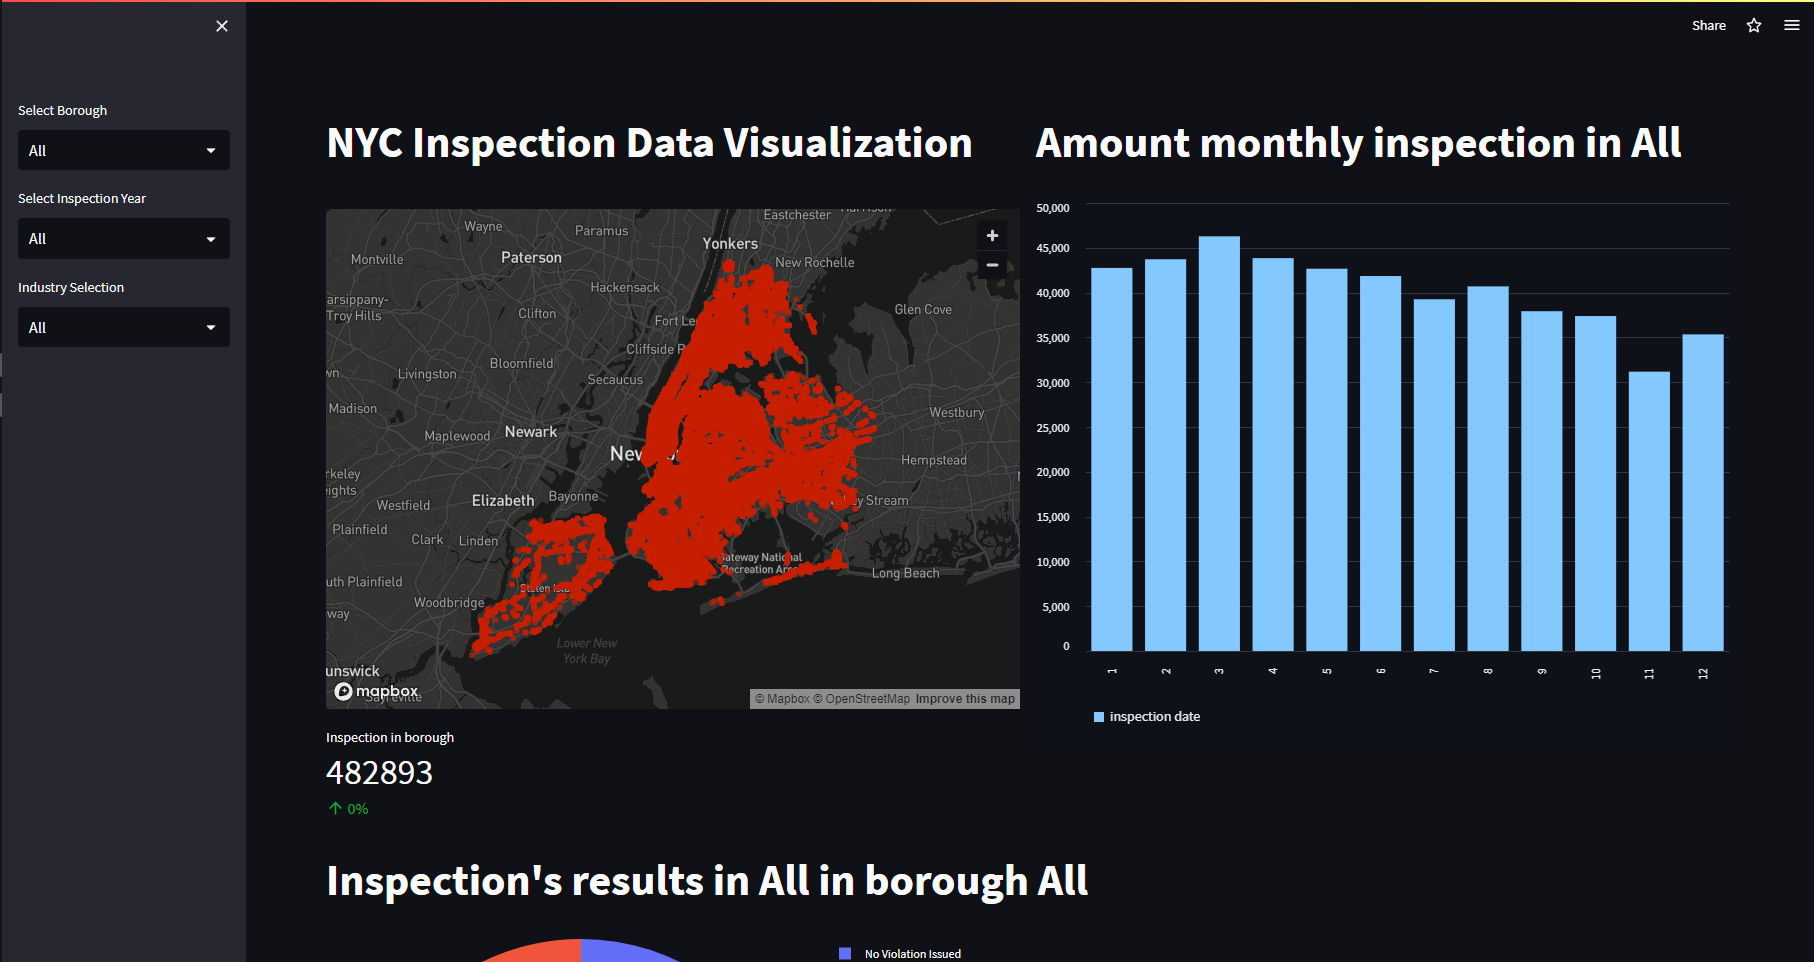
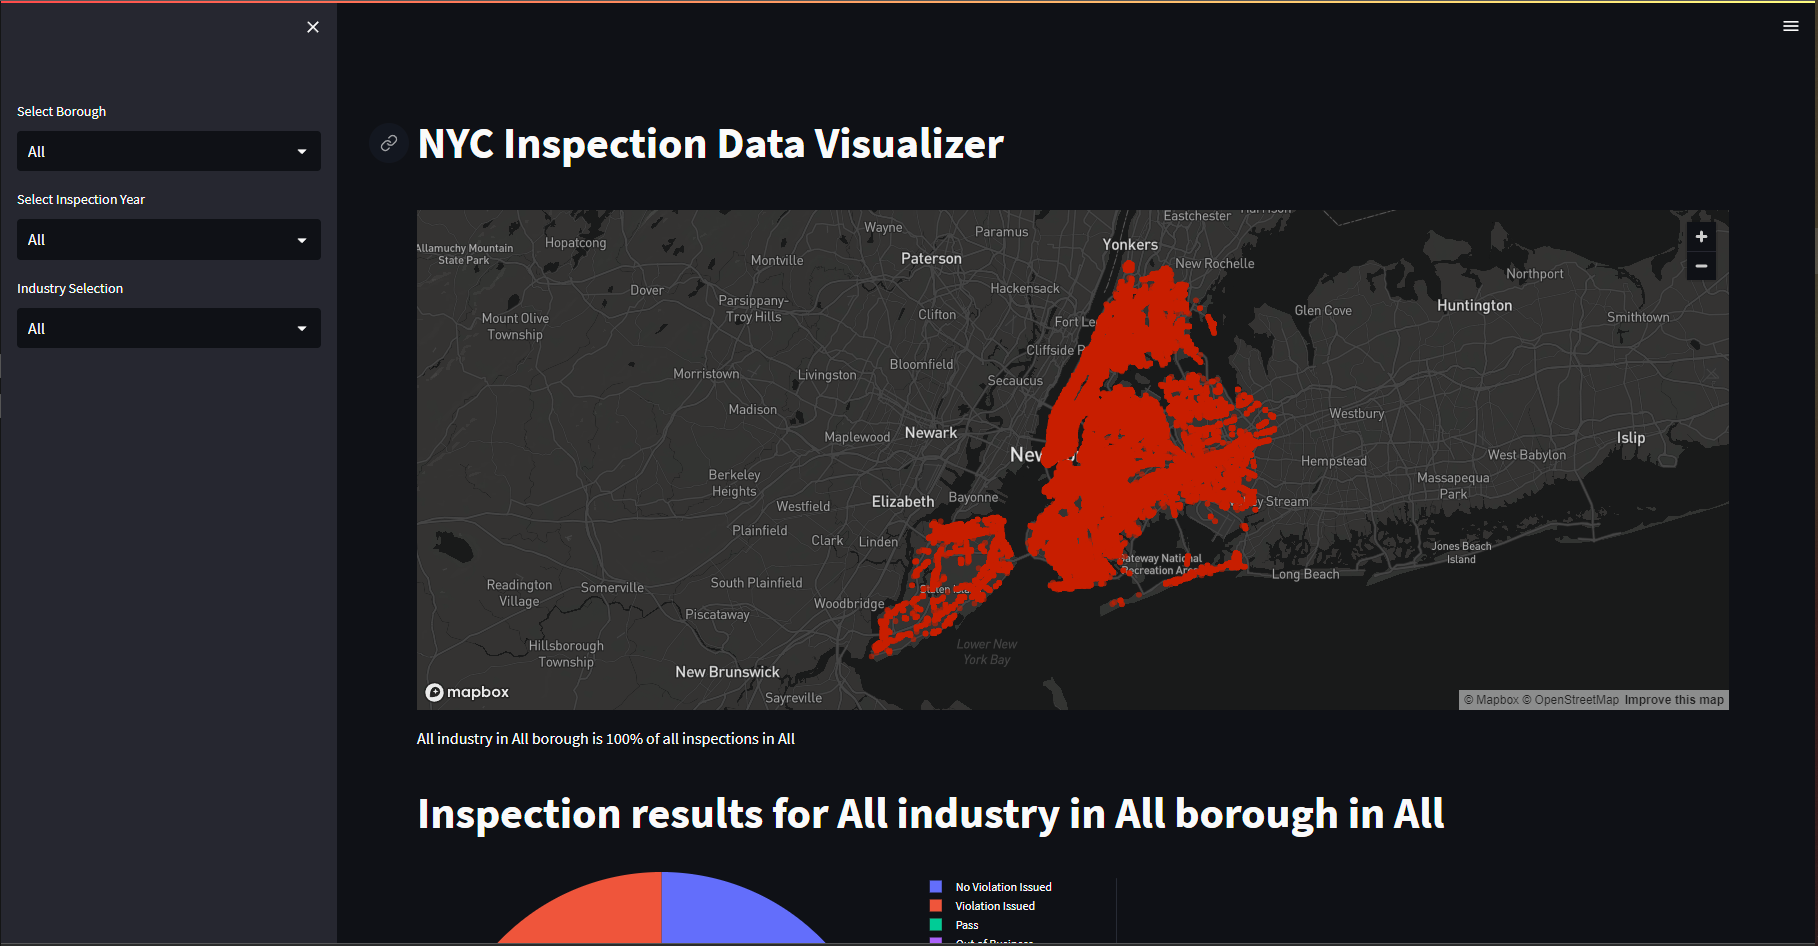
updated bar chart

diff --git a/index.py b/index.py
@@ -1,3 +1,4 @@
+from calendar import month
 import streamlit as st
 import pandas as pd
 import numpy as np
@@ -44,26 +45,7 @@ def create_map(df,borough,year,ind):
     if ind != "All":
         cond3 = df["industry"] == ind
     df = df[cond1 & cond2 & cond3]
-    col1.map(df)
-
-def bar_chart(df,borough,year):
-    if borough != "All":
-        if year != "All":
-            cond1 = df["borough"] == borough
-            cond2 = df["year"] == int(year)
-            data = df[cond1 & cond2]["inspection date"].dt.month.value_counts()
-            col2.bar_chart(data, height = 550)
-        else:
-            data = df[df["borough"] == borough]["inspection date"].dt.month.value_counts()
-            col2.bar_chart(data, height = 550)
-    else:
-        if year !="All":
-            data= df[df["year"] == int(year)]["inspection date"].dt.month.value_counts()
-            col2.bar_chart(data, height = 550)
-        else:
-            data = df["inspection date"].dt.month.value_counts()
-            col2.bar_chart(data, height = 550)
-
+    st.map(df)
 
 def pie_chart(df, borough, year, industry):
     cond1 = df["year"] > 1900
@@ -84,153 +66,46 @@ def pie_chart(df, borough, year, industry):
     fig.update_layout(uniformtext_minsize=12, uniformtext_mode='hide')
     fig
 
-def compared_bar(df, borough, year):
+def stacked_bar(df, borough, year, industry):
+    cond1 = df["year"] > 1900
+    cond2 = df["year"] > 1900
+    cond3 = df['year'] > 1900
     if borough != "All":
-        if year != "All":
-            cond1 = df["borough"] == borough
-            cond2 = df["year"] == int(year)
-            df = df[cond1 & cond2]
-            key = ["No Violation Issued", "Violation Issued"]
-            months = sorted([month for month in df["inspection date"].dt.month.unique()])
-            no_violated= list()
-            violated = list()
-            key = ["No Violation Issued", "Violation Issued"]
-            for month in months:
-                temp_cond = df["inspection date"].dt.month == month
-                value  = dict(df[temp_cond]["inspection result"].value_counts())
-                for k in value:
-                    if k == key[0]:
-                        no_violated.append(value[k])
-                    if k == key[1]:
-                        violated.append(value[k])
-            fig = go.Figure()
-            fig.add_trace(go.Bar(
-                x=months,
-                y=no_violated,
-                name='No Violation Issued',
-                marker_color='lightsalmon'
-            ))
-            fig.add_trace(go.Bar(
-                x=months,
-                y=violated,
-                name='Violation Issued',
-                marker_color='indianred'
-            ))
-            fig.update_layout(barmode='group', xaxis_tickangle=-45)
-            fig.update_layout(xaxis = dict(
-                    tickmode = 'linear',
-                    tick0 = 1,
-                    dtick = 1))
-            fig.update_layout(margin=dict(t=0, b=0, l=0, r=0))
-            fig
-        else:
-            df = df[df["borough"] == borough]
-            months = sorted([month for month in df["inspection date"].dt.month.unique()])
-            key = ["No Violation Issued", "Violation Issued"]
-            months = sorted([month for month in df["inspection date"].dt.month.unique()])
-            no_violated= list()
-            violated = list()
-            key = ["No Violation Issued", "Violation Issued"]
-            for month in months:
-                temp_cond = df["inspection date"].dt.month == month
-                value  = dict(df[temp_cond]["inspection result"].value_counts())
-                for k in value:
-                    if k == key[0]:
-                        no_violated.append(value[k])
-                    if k == key[1]:
-                        violated.append(value[k])
-            fig = go.Figure()
-            fig.add_trace(go.Bar(
-                x=months,
-                y=no_violated,
-                name='No Violation Issued',
-                marker_color='lightsalmon'
-            ))
-            fig.add_trace(go.Bar(
-                x=months,
-                y=violated,
-                name='Violation Issued',
-                marker_color='indianred'
-            ))
-            fig.update_layout(barmode='group', xaxis_tickangle=-45)
-            fig.update_layout(xaxis = dict(
-                    tickmode = 'linear',
-                    tick0 = 1,
-                    dtick = 1))
-            fig.update_layout(margin=dict(t=0, b=0, l=0, r=0))
-            fig
-    else:
-        if year !="All":
-            df = df[df["year"] == int(year)]
-            months = sorted([month for month in df["inspection date"].dt.month.unique()])
-            key = ["No Violation Issued", "Violation Issued"]
-            months = sorted([month for month in df["inspection date"].dt.month.unique()])
-            no_violated= list()
-            violated = list()
-            key = ["No Violation Issued", "Violation Issued"]
-            for month in months:
-                temp_cond = df["inspection date"].dt.month == month
-                value  = dict(df[temp_cond]["inspection result"].value_counts())
-                for k in value:
-                    if k == key[0]:
-                        no_violated.append(value[k])
-                    if k == key[1]:
-                        violated.append(value[k])
-            fig = go.Figure()
-            fig.add_trace(go.Bar(
-                x=months,
-                y=no_violated,
-                name='No Violation Issued',
-                marker_color='lightsalmon'
-            ))
-            fig.add_trace(go.Bar(
-                x=months,
-                y=violated,
-                name='Violation Issued',
-                marker_color='indianred'
-            ))
-            fig.update_layout(barmode='group', xaxis_tickangle=-45)
-            fig.update_layout(xaxis = dict(
-                    tickmode = 'linear',
-                    tick0 = 1,
-                    dtick = 1))
-            fig.update_layout(margin=dict(t=0, b=0, l=0, r=0))
-            fig
-        else:
-            key = ["No Violation Issued", "Violation Issued"]
-            months = sorted([month for month in df["inspection date"].dt.month.unique()])
-            no_violated= list()
-            violated = list()
-            key = ["No Violation Issued", "Violation Issued"]
-            for month in months:
-                temp_cond = df["inspection date"].dt.month == month
-                value  = dict(df[temp_cond]["inspection result"].value_counts())
-                for k in value:
-                    if k == key[0]:
-                        no_violated.append(value[k])
-                    if k == key[1]:
-                        violated.append(value[k])
-            fig = go.Figure()
-            fig.add_trace(go.Bar(
-                x=months,
-                y=no_violated,
-                name='No Violation Issued',
-                marker_color='lightsalmon'
-            ))
-            fig.add_trace(go.Bar(
-                x=months,
-                y=violated,
-                name='Violation Issued',
-                marker_color='indianred'
-            ))
-            fig.update_layout(barmode='group', xaxis_tickangle=-45)
-            fig.update_layout(xaxis = dict(
-                    tickmode = 'linear',
-                    tick0 = 1,
-                    dtick = 1))
-            fig.update_layout(margin=dict(t=0, b=0, l=0, r=0))
-            fig
-            
+        cond1 = df["borough"] == borough
+    if year != "All":
+        cond2 = df["year"] == int(year)
+    if industry != "All":
+        cond3 = df["industry"] == industry
+    temp_df1 = df[cond1 & cond2 & cond3]
+    key = ["No Violation Issued", "Violation Issued"]
+    months = sorted([month for month in df["inspection date"].dt.month.unique()])
+    no_violated= list()
+    violated = list()
+    key = ["No Violation Issued", "Violation Issued"]
+    for month in months:
+        temp_cond = temp_df1["inspection date"].dt.month == month
+        value  = dict(temp_df1[temp_cond]["inspection result"].value_counts())
+        for k in value:
+            if k == key[0]:
+                no_violated.append(value[k])
+            if k == key[1]:
+                violated.append(value[k])
+    temp_df = pd.DataFrame(columns = key)
+    temp_df["No Violation Issued"] = no_violated
+    temp_df["Violation Issued"] = violated
+    temp_df["Month"] = months
+    
+    fig = px.bar(temp_df, x="Month", y=["No Violation Issued", "Violation Issued"],width=1920*0.7, height=1080*0.7)
+    fig.update_layout(
+        xaxis = dict(
+            tickmode = 'linear',
+            tick0 = 1,
+            dtick = 1
+        )
+    )
+
+    fig
+
 #Creating values options for user interface
 
 #Creating borough options
@@ -288,16 +163,13 @@ def create_metric(df, borough, year, industry):
     st.write(industry, ' industry in ', borough, ' borough  is ', temp, 'of all inspections in ', year)
 
 #Split to cols
-col1, col2 = st.columns([1,1])
-col1.title("NYC Inspection Data Visualizer") # H1 tag
+st.title("NYC Inspection Data Visualizer") # H1 tag
 create_map(df, borough, year, industry)
 create_metric(df, borough, year, industry)
-col2.title("Amount of monthly inspection in " + year)
-bar_chart(df, borough, year)
 st.title("Inspection results for " + industry + " industry in " + borough + " borough in " + year)
 pie_chart(df, borough, year, industry)
-st.title("Number of Violation and Non-Violation in " + year)
-compared_bar(df, borough, year)
+st.title("Number of Violation and Non-Violation in " + borough + " for industry " + industry + " in " + year)
+stacked_bar(df, borough, year, industry)
 
 
 
